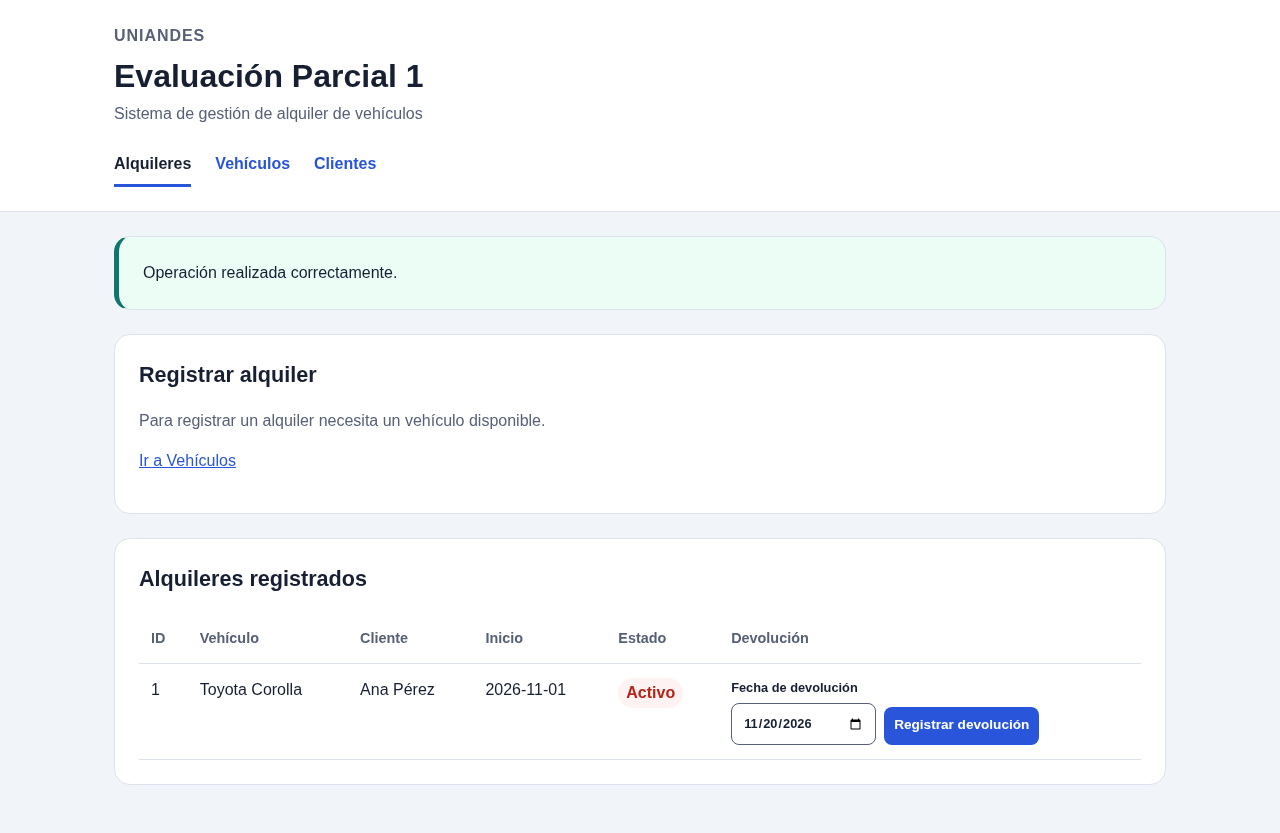
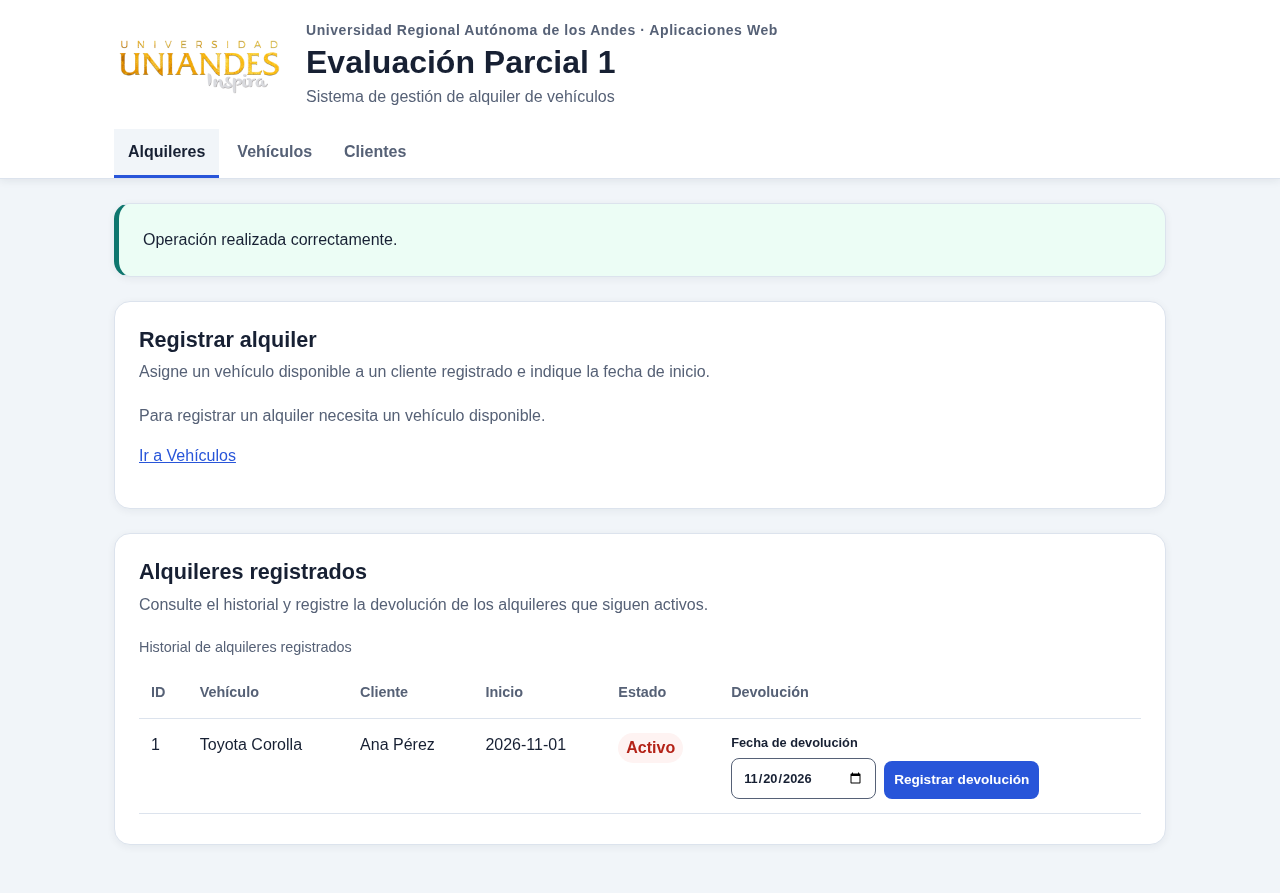
feat(evaluacion): add UNIANDES branding and accessible UI polish

diff --git a/evaluacion/public/style.css b/evaluacion/public/style.css
@@ -1,17 +1,32 @@
-:root { font-family: Inter, system-ui, sans-serif; color: #172033; background: #f1f5f9; }
+:root {
+  font-family: Inter, system-ui, sans-serif;
+  color: #172033;
+  background: #f1f5f9;
+}
+
 * { box-sizing: border-box; }
 body { margin: 0; line-height: 1.5; }
 .shell { max-width: 1100px; margin: 0 auto; padding: 24px; }
-.site-header { background: #fff; border-bottom: 1px solid #dce3ed; }
-.eyebrow { margin: 0; color: #566176; font-weight: 700; letter-spacing: .06em; }
-h1 { margin: 4px 0 0; font-size: clamp(1.7rem, 4vw, 2rem); }
-h2 { margin-top: 0; font-size: 1.35rem; }
-.subtitle { margin: 2px 0 18px; color: #566176; }
-nav { display: flex; flex-wrap: wrap; gap: 8px 24px; }
+.site-header { background: #fff; border-bottom: 1px solid #dce3ed; box-shadow: 0 2px 8px rgb(23 32 51 / 8%); }
+.header-content { padding-top: 20px; padding-bottom: 0; }
+.institutional-identity { display: flex; align-items: center; gap: 20px; }
+.institutional-logo { display: block; width: 172px; height: auto; }
+.eyebrow { margin: 0; color: #566176; font-size: .875rem; font-weight: 700; letter-spacing: .04em; }
+h1 { margin: 2px 0 0; font-size: clamp(1.7rem, 4vw, 2rem); line-height: 1.2; }
+h2 { margin: 0; font-size: 1.35rem; line-height: 1.3; }
+.subtitle { margin: 4px 0 0; color: #566176; }
+.module-nav { display: flex; gap: 4px; margin-top: 20px; overflow-x: auto; }
 a { color: #2855d9; }
-nav a { padding: 8px 0; text-decoration: none; font-weight: 700; }
-nav a[aria-current="page"] { color: #172033; border-bottom: 3px solid #2855d9; }
-.panel, .notice { background: #fff; border: 1px solid #dce3ed; border-radius: 1rem; padding: 24px; margin: 0 0 24px; }
+.module-nav a { min-height: 44px; padding: 11px 14px; color: #566176; text-decoration: none; font-weight: 700; white-space: nowrap; }
+.module-nav a:hover { color: #173ba5; background: #f1f5f9; }
+.module-nav a[aria-current="page"] { color: #172033; background: #f1f5f9; border-bottom: 3px solid #2855d9; }
+.skip-link { position: fixed; z-index: 1; top: 0; left: 12px; padding: 10px 14px; color: #fff; background: #173ba5; border-radius: 0 0 .5rem .5rem; transform: translateY(-120%); }
+.skip-link:focus { transform: translateY(0); }
+main:focus { outline: none; }
+.panel, .notice { background: #fff; border: 1px solid #dce3ed; border-radius: 1rem; padding: 24px; margin: 0 0 24px; box-shadow: 0 2px 8px rgb(23 32 51 / 6%); }
+.module-help { max-width: 70ch; margin: 6px 0 20px; color: #566176; }
+.form-guidance { margin: 0 0 16px; color: #566176; font-size: .9rem; }
+.form-guidance span { color: #b42318; font-weight: 700; }
 .notice { border-left: 5px solid #0f766e; }
 .notice.error { background: #fef3f2; border-left-color: #b42318; }
 .notice.success { background: #ecfdf5; }
@@ -23,8 +38,10 @@ input, select { display: block; width: 100%; min-height: 44px; margin-top: 6px; 
 button { min-height: 44px; padding: 10px 16px; border: 0; border-radius: .5rem; color: #fff; background: #2855d9; font-weight: 700; cursor: pointer; }
 button:hover { background: #173ba5; }
 .cancel { display: inline-block; margin-left: 12px; }
-.table-scroll { overflow-x: auto; }
+.table-scroll { overflow-x: auto; margin: 0 -4px; padding: 0 4px 6px; border-radius: .5rem; }
+.table-scroll:focus-visible { outline: 3px solid #173ba5; outline-offset: 3px; }
 table { width: 100%; min-width: 720px; border-collapse: collapse; }
+caption { padding: 0 0 10px; color: #566176; text-align: left; font-size: .9rem; }
 th, td { padding: 14px 12px; text-align: left; vertical-align: top; border-bottom: 1px solid #dce3ed; }
 th { color: #566176; font-size: .9rem; }
 .status { display: inline-block; padding: 3px 8px; border-radius: 1rem; font-weight: 700; white-space: nowrap; }
@@ -39,4 +56,16 @@ th { color: #566176; font-size: .9rem; }
 .return-form input { min-height: 38px; }
 .return-form button { min-height: 38px; padding: 7px 10px; font-size: .85rem; }
 a:focus-visible, button:focus-visible, input:focus-visible, select:focus-visible { outline: 3px solid #173ba5; outline-offset: 3px; }
-@media (max-width: 600px) { .shell { padding: 16px 12px; } .panel, .notice { padding: 16px; } .form-grid { grid-template-columns: 1fr; } .return-form { display: grid; grid-template-columns: 1fr; } .return-form label { min-width: 0; } }
+@media (max-width: 600px) {
+  .shell { padding: 16px 12px; }
+  .header-content { padding-top: 14px; }
+  .institutional-identity { align-items: flex-start; gap: 12px; }
+  .institutional-logo { width: 116px; margin-top: 4px; }
+  .eyebrow { font-size: .75rem; }
+  .module-nav { margin: 16px -12px 0; padding: 0 12px; }
+  .module-nav a { padding-right: 12px; padding-left: 12px; }
+  .panel, .notice { padding: 16px; }
+  .form-grid { grid-template-columns: 1fr; }
+  .return-form { display: grid; grid-template-columns: 1fr; }
+  .return-form label { min-width: 0; }
+}

diff --git a/evaluacion/public/index.php b/evaluacion/public/index.php
@@ -112,19 +112,25 @@ $today = (new DateTimeImmutable('today'))->format('Y-m-d');
   <link rel="stylesheet" href="/style.css">
 </head>
 <body>
+<a class="skip-link" href="#main-content">Saltar al contenido principal</a>
 <header class="site-header">
-  <div class="shell">
-    <p class="eyebrow">UNIANDES</p>
-    <h1>Evaluación Parcial 1</h1>
-    <p class="subtitle">Sistema de gestión de alquiler de vehículos</p>
-    <nav aria-label="Módulos">
+  <div class="shell header-content">
+    <div class="institutional-identity">
+      <img class="institutional-logo" src="/logo-uniandes.png" alt="Logotipo institucional de UNIANDES" width="1024" height="368">
+      <div>
+        <p class="eyebrow">Universidad Regional Autónoma de los Andes · Aplicaciones Web</p>
+        <h1>Evaluación Parcial 1</h1>
+        <p class="subtitle">Sistema de gestión de alquiler de vehículos</p>
+      </div>
+    </div>
+    <nav class="module-nav" aria-label="Módulos">
       <?php foreach (['alquileres' => 'Alquileres', 'vehiculos' => 'Vehículos', 'clientes' => 'Clientes'] as $key => $label): ?>
         <a href="/?tab=<?= $key ?>"<?= $tab === $key ? ' aria-current="page"' : '' ?>><?= $label ?></a>
       <?php endforeach; ?>
     </nav>
   </div>
 </header>
-<main class="shell">
+<main id="main-content" class="shell" tabindex="-1">
   <?php if ($databaseError): ?>
     <section class="notice error" role="alert">
       <h2>Servicio no disponible</h2>
@@ -141,6 +147,7 @@ $today = (new DateTimeImmutable('today'))->format('Y-m-d');
     <?php if ($tab === 'alquileres'): ?>
       <section class="panel" aria-labelledby="rental-title">
         <h2 id="rental-title">Registrar alquiler</h2>
+        <p class="module-help">Asigne un vehículo disponible a un cliente registrado e indique la fecha de inicio.</p>
         <?php if (!$availableVehicles || !$clients): ?>
           <p class="empty">
             Para registrar un alquiler necesita <?= !$availableVehicles ? 'un vehículo disponible' : '' ?><?= !$availableVehicles && !$clients ? ' y ' : '' ?><?= !$clients ? 'un cliente registrado' : '' ?>.
@@ -152,6 +159,7 @@ $today = (new DateTimeImmutable('today'))->format('Y-m-d');
           </p>
         <?php else: ?>
           <form action="/api.php" method="post" aria-label="Registrar alquiler">
+            <p class="form-guidance"><span aria-hidden="true">*</span> Campos obligatorios.</p>
             <input type="hidden" name="csrf" value="<?= escape($_SESSION['csrf']) ?>">
             <input type="hidden" name="action" value="crear_alquiler">
             <div class="form-grid">
@@ -189,11 +197,13 @@ $today = (new DateTimeImmutable('today'))->format('Y-m-d');
 
       <section class="panel" aria-labelledby="rental-list-title">
         <h2 id="rental-list-title">Alquileres registrados</h2>
+        <p class="module-help">Consulte el historial y registre la devolución de los alquileres que siguen activos.</p>
         <?php if (!$rentals): ?>
           <p class="empty">Aún no hay alquileres registrados.</p>
         <?php else: ?>
-          <div class="table-scroll">
+          <div class="table-scroll" role="region" aria-label="Desplace horizontalmente para ver la tabla completa" tabindex="0">
             <table>
+              <caption>Historial de alquileres registrados</caption>
               <thead>
                 <tr><th>ID</th><th>Vehículo</th><th>Cliente</th><th>Inicio</th><th>Estado</th><th>Devolución</th></tr>
               </thead>
@@ -237,7 +247,9 @@ $today = (new DateTimeImmutable('today'))->format('Y-m-d');
     <?php if ($tab === 'vehiculos'): ?>
       <section class="panel" aria-labelledby="vehicle-form-title">
         <h2 id="vehicle-form-title"><?= $editingVehicle ? 'Editar vehículo' : 'Registrar vehículo' ?></h2>
+        <p class="module-help">Mantenga actualizada la información y disponibilidad de la flota.</p>
         <form action="/api.php" method="post" aria-label="<?= $editingVehicle ? 'Editar vehículo' : 'Registrar vehículo' ?>">
+          <p class="form-guidance"><span aria-hidden="true">*</span> Campos obligatorios.</p>
           <input type="hidden" name="csrf" value="<?= escape($_SESSION['csrf']) ?>">
           <input type="hidden" name="action" value="guardar_vehiculo">
           <?php if ($editingVehicle): ?>
@@ -262,11 +274,13 @@ $today = (new DateTimeImmutable('today'))->format('Y-m-d');
 
       <section class="panel" aria-labelledby="vehicle-list-title">
         <h2 id="vehicle-list-title">Vehículos registrados</h2>
+        <p class="module-help">Revise la disponibilidad antes de iniciar un nuevo alquiler.</p>
         <?php if (!$vehicles): ?>
           <p class="empty">Aún no hay vehículos registrados.</p>
         <?php else: ?>
-          <div class="table-scroll">
+          <div class="table-scroll" role="region" aria-label="Desplace horizontalmente para ver la tabla completa" tabindex="0">
             <table>
+              <caption>Vehículos registrados y su disponibilidad</caption>
               <thead>
                 <tr><th>ID</th><th>Marca</th><th>Modelo</th><th>Año</th><th>Disponibilidad</th><th>Acciones</th></tr>
               </thead>
@@ -299,7 +313,9 @@ $today = (new DateTimeImmutable('today'))->format('Y-m-d');
     <?php if ($tab === 'clientes'): ?>
       <section class="panel" aria-labelledby="client-form-title">
         <h2 id="client-form-title"><?= $editingClient ? 'Editar cliente' : 'Registrar cliente' ?></h2>
+        <p class="module-help">Registre los datos de contacto y una licencia única para cada cliente.</p>
         <form action="/api.php" method="post" aria-label="<?= $editingClient ? 'Editar cliente' : 'Registrar cliente' ?>">
+          <p class="form-guidance"><span aria-hidden="true">*</span> Campos obligatorios.</p>
           <input type="hidden" name="csrf" value="<?= escape($_SESSION['csrf']) ?>">
           <input type="hidden" name="action" value="guardar_cliente">
           <?php if ($editingClient): ?>
@@ -318,11 +334,13 @@ $today = (new DateTimeImmutable('today'))->format('Y-m-d');
 
       <section class="panel" aria-labelledby="client-list-title">
         <h2 id="client-list-title">Clientes registrados</h2>
+        <p class="module-help">Verifique los datos de los clientes antes de asignarles un vehículo.</p>
         <?php if (!$clients): ?>
           <p class="empty">Aún no hay clientes registrados.</p>
         <?php else: ?>
-          <div class="table-scroll">
+          <div class="table-scroll" role="region" aria-label="Desplace horizontalmente para ver la tabla completa" tabindex="0">
             <table>
+              <caption>Clientes registrados y datos de contacto</caption>
               <thead>
                 <tr><th>ID</th><th>Nombre</th><th>Apellido</th><th>Licencia</th><th>Teléfono</th><th>Acciones</th></tr>
               </thead>

diff --git a/evaluacion/README.md b/evaluacion/README.md
@@ -33,6 +33,10 @@ docker compose down
 
 La base inicia vacía: primero registrar vehículos y clientes. Los datos se mantienen en el volumen propio del proyecto.
 
+## Identidad y accesibilidad
+
+La cabecera utiliza el logotipo institucional local de UNIANDES. La interfaz incluye un enlace para saltar al contenido principal, foco visible para teclado, pestañas de módulo con estado activo, instrucciones en los formularios y regiones de tabla desplazables en pantallas estrechas.
+
 ## Capturas del funcionamiento
 
 Capturas reales del navegador durante el uso del sistema local, con datos de demostración.
